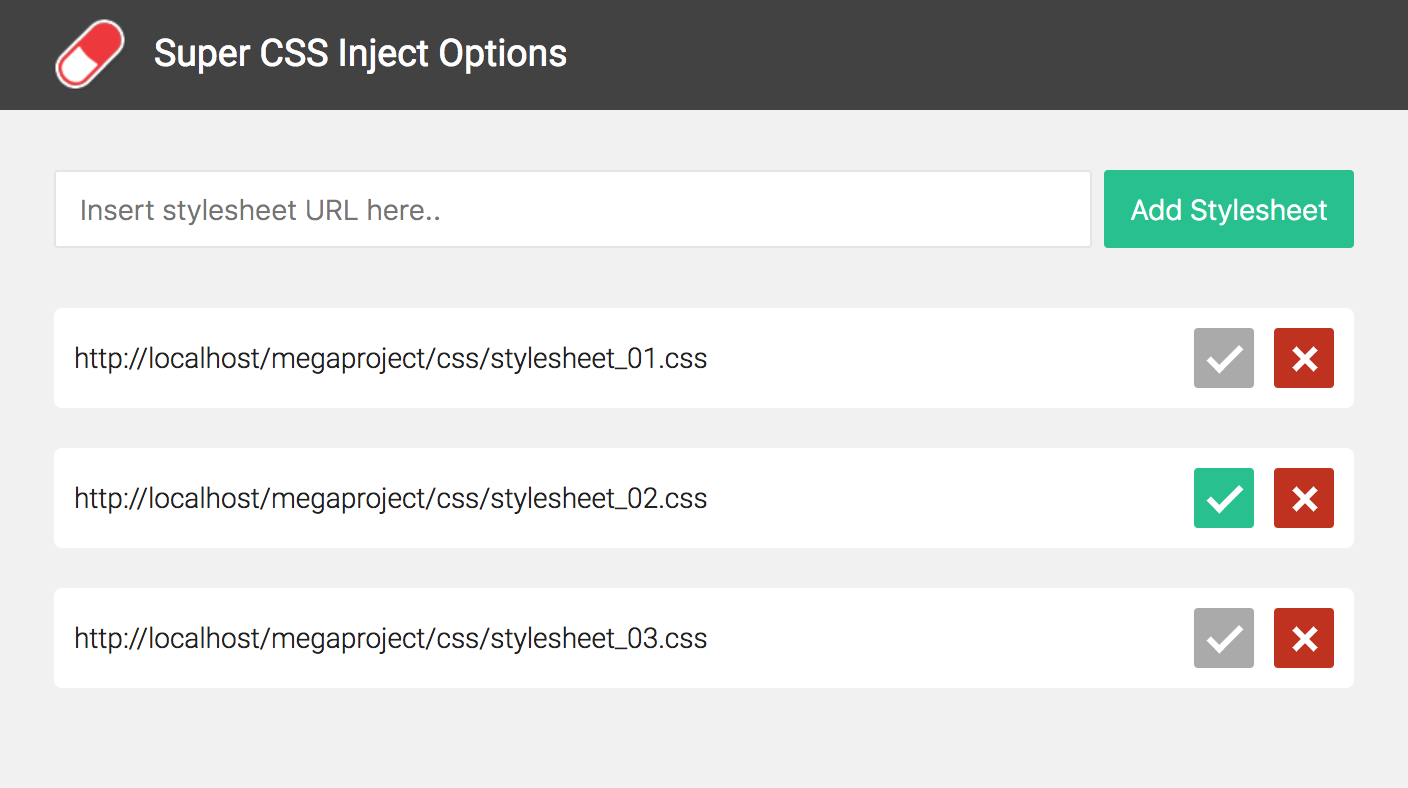
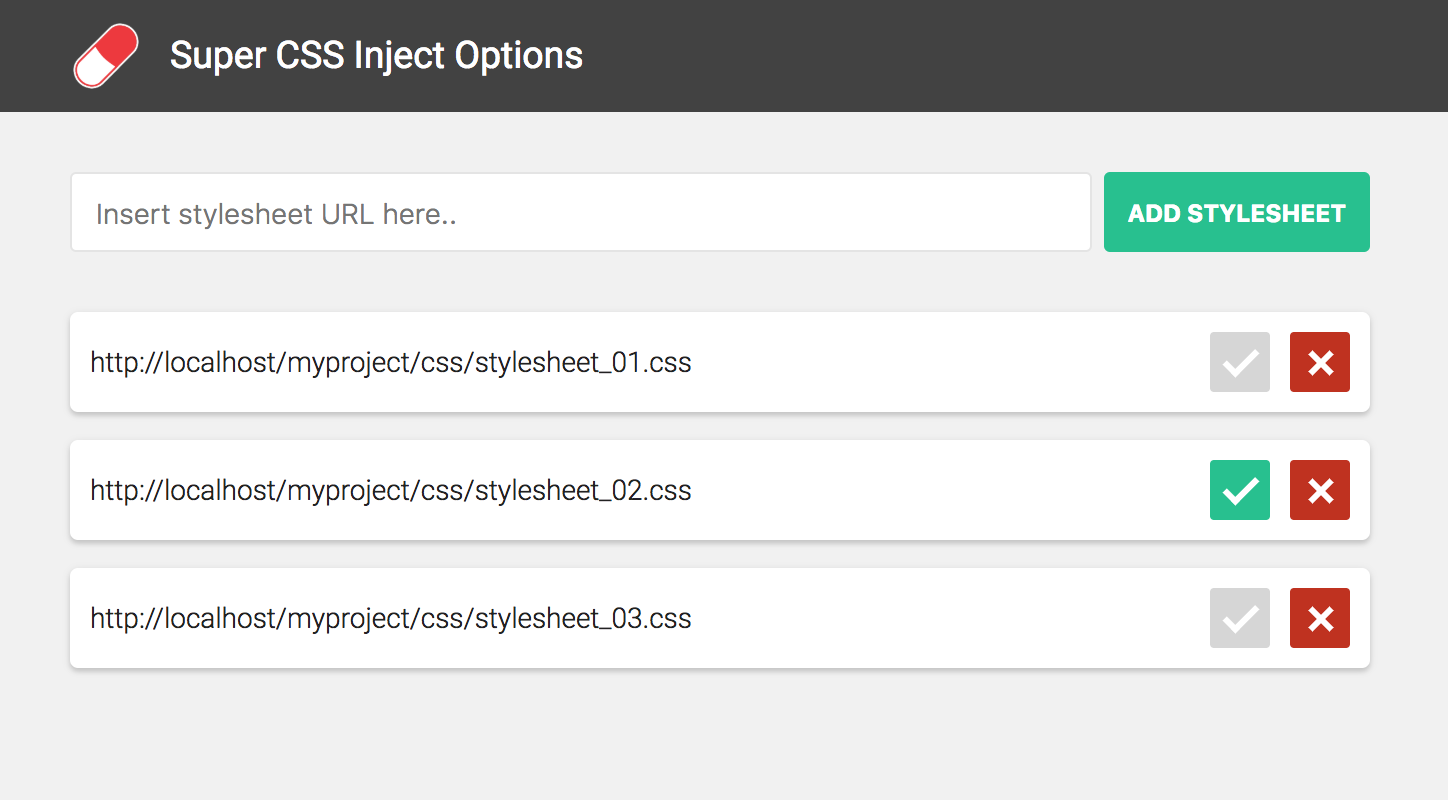
Update styles for button and stylesheet list item

diff --git a/src/options.css b/src/options.css
@@ -9,8 +9,8 @@
     --red: #C13016;
     --red-shade-1: #912511;
     
-    --gray: #AAAAAA;
-    --gray-shade-1: #8C8C8C;
+    --gray: #D6D6D6;
+    --gray-shade-1: #B0B0B0;
 }
 
 * {
@@ -72,22 +72,32 @@ main {
 
 input {
     padding: 10px 12px;
-    border-radius: 2px;
+    border-radius: 3px;
     border: 1px solid #E4E4E4;
     font-size: 14px;
     font-weight: 300;
+    height: 40px;
 }
 
 input:focus {
     outline: none;
-    border-color: #B0B0B0;
+    border-color: var(--green);
+}
+
+input[type="submit"],
+button {
+    color: #FFF;
+    cursor: pointer;
+    /* box-shadow: 0 3px 1px -2px rgba(0,0,0,.2), 0 2px 2px 0 rgba(0,0,0,.14), 0 1px 5px 0 rgba(0,0,0,.12); */
+    text-transform: uppercase;
+    font-weight: bold;
+    font-size: 12px;
+    border: 0;
 }
 
 input[type="submit"] {
     background-color: var(--green);
     border-color: var(--green);
-    color: #FFF;
-    cursor: pointer;
 }
 
 input[type="submit"]:hover {
@@ -130,20 +140,20 @@ input[type="submit"]:active {
     align-items: center;
     height: 50px;
     padding: 10px;
-    margin-top: 20px;
+    margin-top: 14px;
     background-color: #FFF;
     color: #222;
     font-size: 14px;
     font-weight: 300;
     border-radius: 4px;
+    box-shadow: 0 2px 2px 0 rgba(0,0,0,0.1), 0 1px 5px 0 rgba(0,0,0,0.12);
 }
 
 .stylesheet:first-child {
     margin-top: 0;
 }
 
-.stylesheet--active button.stylesheet__toggle,
-.stylesheet--active button.stylesheet__toggle:hover {
+.stylesheet--active button.stylesheet__toggle {
     background-color: var(--green);
 }
 
@@ -168,10 +178,15 @@ input[type="submit"]:active {
     align-items: center;
     outline: 0;
     cursor: pointer;
+    box-shadow: none;
 }
 
 .stylesheet button:hover {
     background-color: var(--gray-shade-1);
+}
+
+.stylesheet--active button.stylesheet__toggle:hover {
+    background-color: var(--green-shade-1);
 }
 
 .stylesheet button:active {
